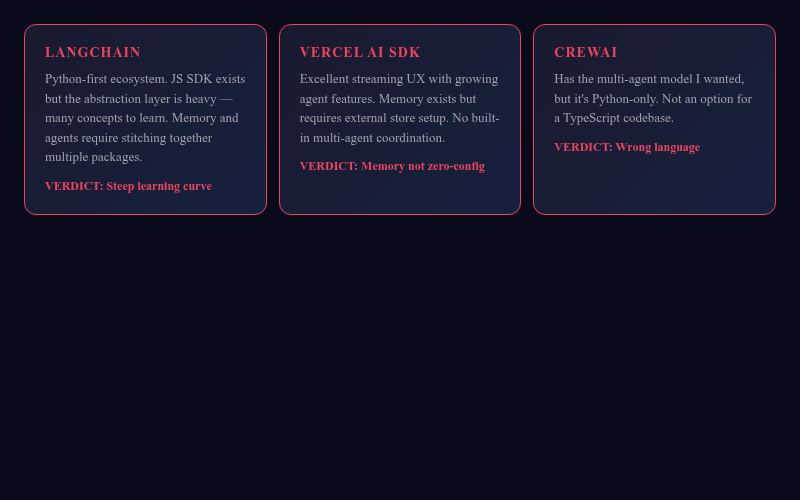
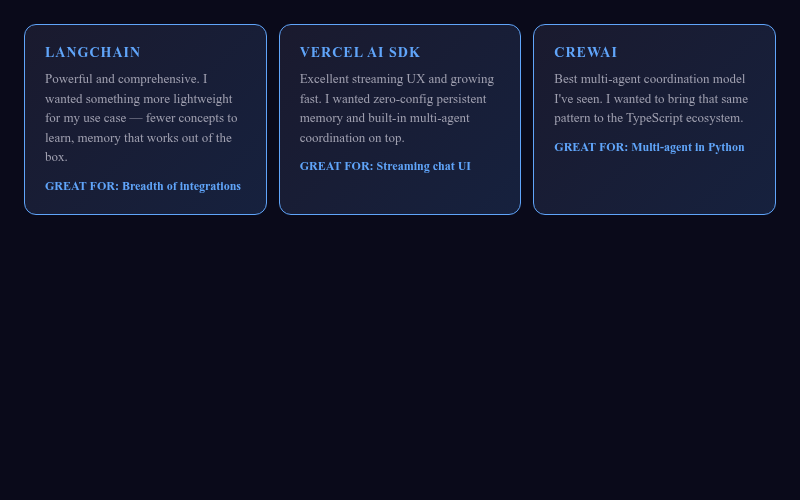
docs: soften competitor comparisons — respect others, highlight what's unique

diff --git a/blog-post.md b/blog-post.md
@@ -14,27 +14,27 @@ The result is [`@avee1234/agent-kit`](https://github.com/abhid1234/agent-kit): a
 
 ## The Problem With Existing Tools
 
-When I started building AI agents in TypeScript, I ran into the same wall most people hit:
+There are great tools out there — LangChain, Vercel AI SDK, CrewAI — and I've learned a lot from all of them. But I had a specific combination of needs that didn't exist in one place:
 
 <div style="display: flex; gap: 12px; flex-wrap: wrap; margin: 24px 0;">
-  <div style="flex: 1; min-width: 220px; background: linear-gradient(135deg, #1a1a2e 0%, #16213e 100%); border-radius: 12px; padding: 20px; border: 1px solid #e94560;">
-    <div style="font-size: 14px; font-weight: 700; color: #e94560; text-transform: uppercase; letter-spacing: 1px; margin-bottom: 8px;">LangChain</div>
-    <div style="font-size: 13px; color: #a0a0b0; line-height: 1.5;">Python-first ecosystem. JS SDK exists but the abstraction layer is heavy — many concepts to learn. Memory and agents require stitching together multiple packages.</div>
-    <div style="margin-top: 12px; font-size: 12px; color: #e94560; font-weight: 600;">VERDICT: Steep learning curve</div>
+  <div style="flex: 1; min-width: 220px; background: linear-gradient(135deg, #1a1a2e 0%, #16213e 100%); border-radius: 12px; padding: 20px; border: 1px solid #60a5fa;">
+    <div style="font-size: 14px; font-weight: 700; color: #60a5fa; text-transform: uppercase; letter-spacing: 1px; margin-bottom: 8px;">LangChain</div>
+    <div style="font-size: 13px; color: #a0a0b0; line-height: 1.5;">Powerful and comprehensive. I wanted something more lightweight for my use case — fewer concepts to learn, memory that works out of the box.</div>
+    <div style="margin-top: 12px; font-size: 12px; color: #60a5fa; font-weight: 600;">GREAT FOR: Breadth of integrations</div>
   </div>
-  <div style="flex: 1; min-width: 220px; background: linear-gradient(135deg, #1a1a2e 0%, #16213e 100%); border-radius: 12px; padding: 20px; border: 1px solid #e94560;">
-    <div style="font-size: 14px; font-weight: 700; color: #e94560; text-transform: uppercase; letter-spacing: 1px; margin-bottom: 8px;">Vercel AI SDK</div>
-    <div style="font-size: 13px; color: #a0a0b0; line-height: 1.5;">Excellent streaming UX with growing agent features. Memory exists but requires external store setup. No built-in multi-agent coordination.</div>
-    <div style="margin-top: 12px; font-size: 12px; color: #e94560; font-weight: 600;">VERDICT: Memory not zero-config</div>
+  <div style="flex: 1; min-width: 220px; background: linear-gradient(135deg, #1a1a2e 0%, #16213e 100%); border-radius: 12px; padding: 20px; border: 1px solid #60a5fa;">
+    <div style="font-size: 14px; font-weight: 700; color: #60a5fa; text-transform: uppercase; letter-spacing: 1px; margin-bottom: 8px;">Vercel AI SDK</div>
+    <div style="font-size: 13px; color: #a0a0b0; line-height: 1.5;">Excellent streaming UX and growing fast. I wanted zero-config persistent memory and built-in multi-agent coordination on top.</div>
+    <div style="margin-top: 12px; font-size: 12px; color: #60a5fa; font-weight: 600;">GREAT FOR: Streaming chat UI</div>
   </div>
-  <div style="flex: 1; min-width: 220px; background: linear-gradient(135deg, #1a1a2e 0%, #16213e 100%); border-radius: 12px; padding: 20px; border: 1px solid #e94560;">
-    <div style="font-size: 14px; font-weight: 700; color: #e94560; text-transform: uppercase; letter-spacing: 1px; margin-bottom: 8px;">CrewAI</div>
-    <div style="font-size: 13px; color: #a0a0b0; line-height: 1.5;">Has the multi-agent model I wanted, but it's Python-only. Not an option for a TypeScript codebase.</div>
-    <div style="margin-top: 12px; font-size: 12px; color: #e94560; font-weight: 600;">VERDICT: Wrong language</div>
+  <div style="flex: 1; min-width: 220px; background: linear-gradient(135deg, #1a1a2e 0%, #16213e 100%); border-radius: 12px; padding: 20px; border: 1px solid #60a5fa;">
+    <div style="font-size: 14px; font-weight: 700; color: #60a5fa; text-transform: uppercase; letter-spacing: 1px; margin-bottom: 8px;">CrewAI</div>
+    <div style="font-size: 13px; color: #a0a0b0; line-height: 1.5;">Best multi-agent coordination model I've seen. I wanted to bring that same pattern to the TypeScript ecosystem.</div>
+    <div style="margin-top: 12px; font-size: 12px; color: #60a5fa; font-weight: 600;">GREAT FOR: Multi-agent in Python</div>
   </div>
 </div>
 
-What I needed was simple: an agent that could use tools, remember things across sessions, and coordinate with other agents — all in TypeScript, without a PhD in framework internals. So I built it.
+So I built what I needed: zero-config persistent memory, simple tool system, multi-agent coordination, and TypeScript-first — all in one package.
 
 ---
 
@@ -301,7 +301,7 @@ No LangSmith, no third-party tracing service, no credit card. It's just `EventEm
 
 ---
 
-## The Comparison
+## Where Each Tool Shines
 
 <div style="background: #0f0f23; border-radius: 16px; overflow: hidden; margin: 24px 0; border: 1px solid #2a2a4a;">
   <table style="width: 100%; border-collapse: collapse; font-size: 13px;">
